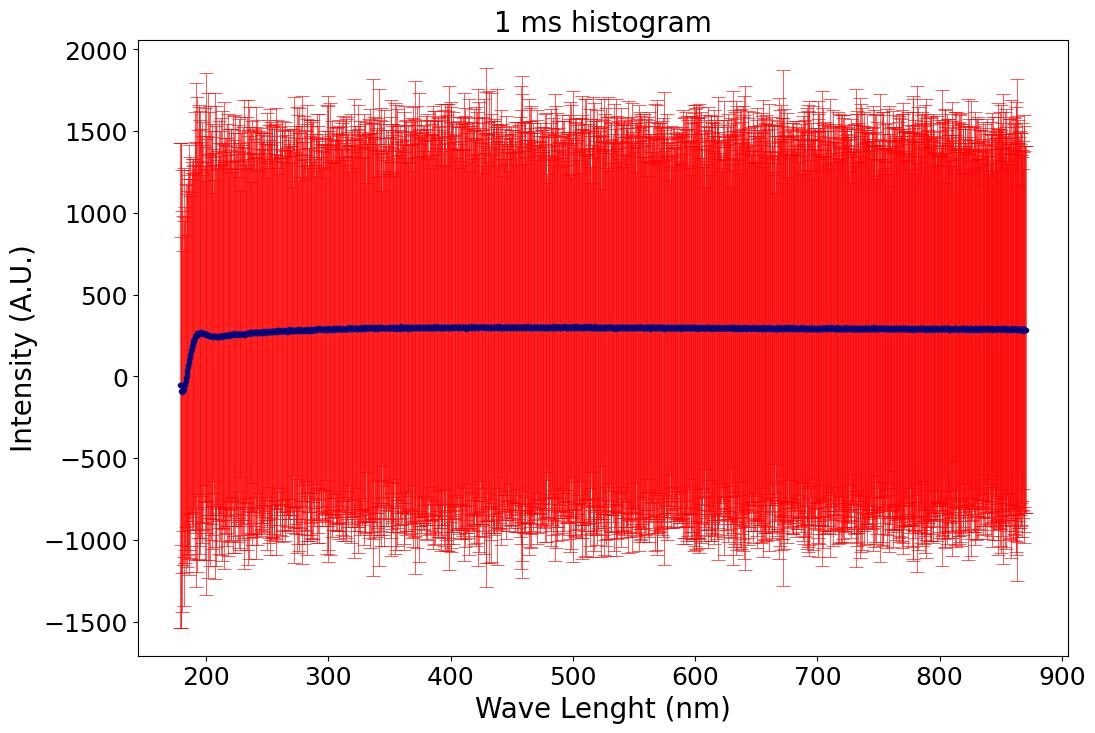
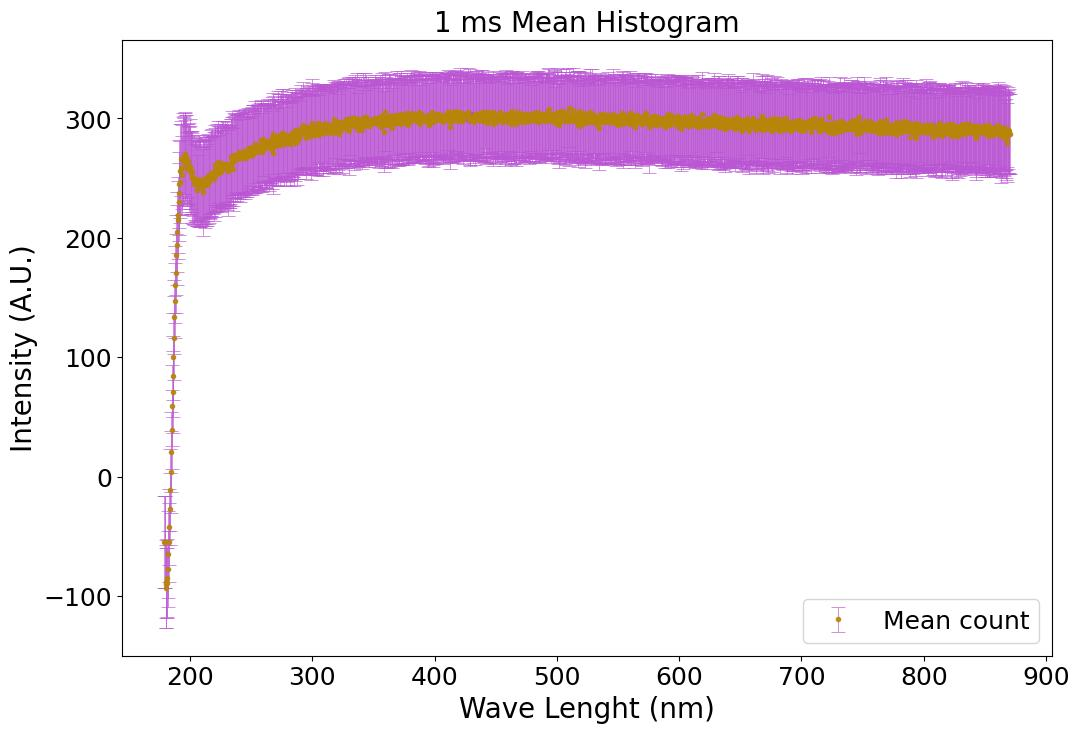
Drift and mean STD determination

diff --git a/BG Analysis/BG Analisis.py b/BG Analysis/BG Analisis.py
@@ -7,24 +7,30 @@ import numpy as np
 import pandas as pd
 import math as math
 from glob import glob
+from scipy.stats import norm
+from scipy.optimize import curve_fit
 
-#%%
+#%% 
 
-Rutas=glob(r'C:\Users\genar\Documents\CERN Summer 2025\BG Studies\100 ms\*.txt')
+dataset_title='1 ms'
 
-data={}
+
+def gaussian(x, mu, sigma):
+    return (1 / (sigma * np.sqrt(2 * np.pi))) *np.exp(- (x - mu)**2 
+                                                       / (2 * sigma**2))
+
+# -------------------------- DATA SORTING ----------------------------
+# Data sorting
+
+Rutas=glob(rf'C:\Users\genar\Documents\CERN Summer 2025\BG Studies\{dataset_title}\*.txt')
+
 Count_List=[]
+Lambda_List=[]
 Indice= 0
 
 for ruta in Rutas:
 
   data_list=[]
-
-  #Caracterizacion
-
-  # As the files to be used are made of two columbs one for the wave length (Lambda) and other for the
-  # intensiti of each Lambda, here we just have to set another name in the array variable and uncomment the
-  # line 'Colum Lambda
 
   array= pd.read_csv(ruta, names=['Lambda', 'Counts'], sep='\t', 
                      skiprows=17, skipfooter=1, header=None, engine='python')
@@ -33,15 +39,15 @@ for ruta in Rutas:
   Colum_Lambda=array['Lambda'] 
 
   Count_List+=[Colum_Cuentas]
-  data_list+=[Colum_Lambda, Colum_Cuentas]
-  data[Indice]=data_list
+  Lambda_List+=[Colum_Lambda]
 
   Indice += 1
 
+# ------------------------- DATA ANALYSIS ----------------------------
 
-channel_length=len(data[0][0])
+channel_length=len(Lambda_List[0])
 mean_per_channel=[]
-var_per_channel=[]
+std_per_channel=[]
 
 for j in np.arange(0,2048):
 
@@ -52,23 +58,176 @@ for j in np.arange(0,2048):
     lista.append(Count_List[i][j])
     
   mean_per_channel.append(np.mean(lista))
-  var_per_channel.append(np.var(lista))
+  std_per_channel.append(np.std(lista))
+
+channels=Lambda_List[0]
+
+# ------------------ STATISTICAL ANALYSIS ---------------------
 
 
-channels=data[0][0]
+# For each data set (exposure time sorted), must create an histogram for
+# the STD variance per channel, that means, create an histogram for each
+# std_per_chanel.
+
+min_value=min(std_per_channel)
+max_value=max(std_per_channel)
+
+plt.figure(figsize=(12,8))
+
+# Histogram configuration
+data= std_per_channel
+bins = 40                 # Number of bins
+range_values = (min_value, max_value) 
+density = True            # If True, histogram shows probability density instead of counts
+color = 'mediumorchid'          # Color of the bars
+alpha = 0.7                # Transparency (0 = transparent, 1 = solid)
+edgecolor = 'black'        # Color of the bar edges
+label = 'STD Data distribution'      # Legend label
+histtype = 'bar'           # Other options: 'step', 'stepfilled', 'barstacked'
+
+
+# Plotting the histogram
+counts, bins_edges, patches = plt.hist(
+    data, 
+    bins=bins, 
+    range=range_values, 
+    density=density, 
+    color=color, 
+    alpha=alpha, 
+    edgecolor=edgecolor, 
+    label=label, 
+    histtype=histtype
+)
+
+# fitting the histogram
+
+bins_centers = 0.5 * (bins_edges[:-1] + bins_edges[1:])
+
+pop, cov = curve_fit(gaussian, bins_centers[0:200], counts[0:200], p0=[35,5])
+
+error=np.sqrt(np.diag(cov))
+
+plt.plot(bins_edges[0:200], gaussian(bins_edges[0:200], *pop), 
+         color='crimson', label=rf'$\mu$= {pop[0]:.2f}({error[0]:.2f}), $\sigma$= {pop[1]:.2f}({error[0]:.2f})',
+         linewidth=4)
+
+# Add labels, title, legend
+plt.xlabel('Photon count', fontsize= 18)
+plt.ylabel('Frecency', fontsize= 18)
+plt.title(f'{dataset_title} STD Distribution', fontsize= 15)
+plt.tick_params(axis='both', which='major', labelsize=18)
+plt.legend(fontsize=15)
+#plt.xlim(20,50)
+
+plt.savefig(f'{dataset_title} STD Histogram.jpg', format='jpg',
+            bbox_inches='tight')
+
+plt.show()
+
+
+# --------- VALUES OF STD OUTSIDE THE MAIN DISTRIBUTION --------------
+
+
+sorted_std_per_channel=std_per_channel.copy()
+
+sorted_std_per_channel.sort(reverse=True)
+
+V1_std=sorted_std_per_channel[0] # Maximo valor
+V2_std=sorted_std_per_channel[1] # Segundo Maximo valor
+
+Index_1_std=std_per_channel.index(V1_std)
+Index_2_std=std_per_channel.index(V2_std)
+
+C1=channels[Index_1_std]
+C2=channels[Index_2_std]
+
+M1=mean_per_channel[Index_1_std]
+M2=mean_per_channel[Index_2_std]
+
+print('The value of ', round(V1_std,3), ' is on the ', C1, ' nm')
+print('The value of ', round(V2_std,3), ' is on the ', C2, ' nm')
+
+
+# -------------------------- PLOTTING -------------------------------
 
 plt.figure(figsize=(12,8))
 plt.errorbar(channels, mean_per_channel, fmt='.', 
-             color='mediumorchid', yerr=var_per_channel,
-             ecolor='teal', elinewidth=0.5, 
+             color='darkgoldenrod', yerr=std_per_channel,
+             ecolor='mediumorchid', elinewidth=0.5, 
              capsize=5, capthick=0.5, 
-            errorevery=1, alpha=0.9)
+            errorevery=1, alpha=0.9,
+            label='Mean count')
+
+# plt.scatter(C1, M1, marker='o', s=60, c='red', label='Point w/ Bigger STD {M1}')
+plt.scatter(C2, M2, marker='o', s=60, c='red')
+
 plt.xlabel('Wave Lenght (nm)', fontsize=20)
 plt.ylabel('Intensity (A.U.)', fontsize=20)
 plt.tick_params(axis='both', which='major', labelsize=18)
-plt.title('100 ms histogram', fontsize=20)
-plt.ylim(-1750,2250)
-plt.savefig('100 ms Mean Histogram.jpg', format='jpg',
+plt.title(f'{dataset_title} Mean Histogram', fontsize=20)
+
+plt.legend(fontsize=18)
+
+plt.savefig(f'{dataset_title} Mean Histogram.jpg', format='jpg',
             bbox_inches='tight')
 
+plt.show()
 
+#%%
+
+# ---------------- DRIFT ANALYSIS -------------------
+
+import matplotlib.cm as cm
+from matplotlib.cm import ScalarMappable
+from matplotlib.colors import Normalize
+
+Rutas_drift=glob(r'C:\Users\genar\Documents\CERN Summer 2025\BG Studies\BG Drift\1000 ms\*.txt')
+
+data_drift={}
+Count_List_drift=[]
+Indice_drift= 0
+
+for ruta in Rutas_drift:
+
+  data_drift_list=[]
+
+  array= pd.read_csv(ruta, names=['Lambda', 'Counts'], sep='\t', 
+                     skiprows=17, skipfooter=1, header=None, engine='python')
+
+  Colum_Cuentas_drift=array['Counts']
+  Colum_Lambda_drift=array['Lambda'] 
+
+  Count_List_drift+=[Colum_Cuentas_drift]
+  data_drift_list+=[Colum_Lambda_drift, Colum_Cuentas_drift]
+  data_drift[Indice_drift]=data_drift_list
+
+  Indice_drift += 1
+
+# Plotting
+fig, ax = plt.subplots(figsize=(12,8))
+
+cmap = plt.get_cmap('inferno')
+num_plots = len(data_drift)
+
+colors = [cmap(i / num_plots) for i in range(num_plots)]
+
+for idx in range(len(data_drift)):
+    ax.plot(data_drift[0][0], data_drift[idx][1], lw=0.5, color=colors[idx])
+
+ax.set_xlabel('Wave Lenght (nm)', fontsize=20)
+ax.set_ylabel('Intensity (A.U.)', fontsize=20)
+ax.tick_params(axis='both', which='major', labelsize=18)
+ax.set_title('1000 ms BG drift', fontsize=15)
+
+# Create colorbar
+norm = Normalize(vmin=0, vmax=num_plots)
+sm = ScalarMappable(cmap=cmap, norm=norm)
+sm.set_array([])
+
+cbar = fig.colorbar(sm, ax=ax)
+cbar.set_label('Data set', fontsize=15)
+
+plt.savefig('1000 ms BG Drift.jpg', format='jpg',
+            bbox_inches='tight')
+
+plt.show()
